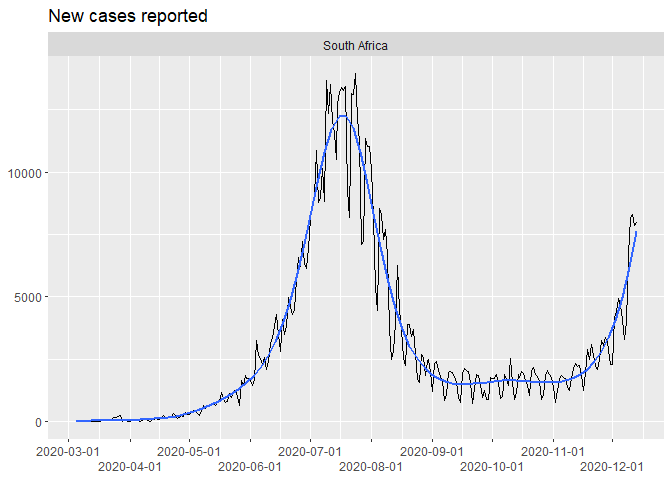
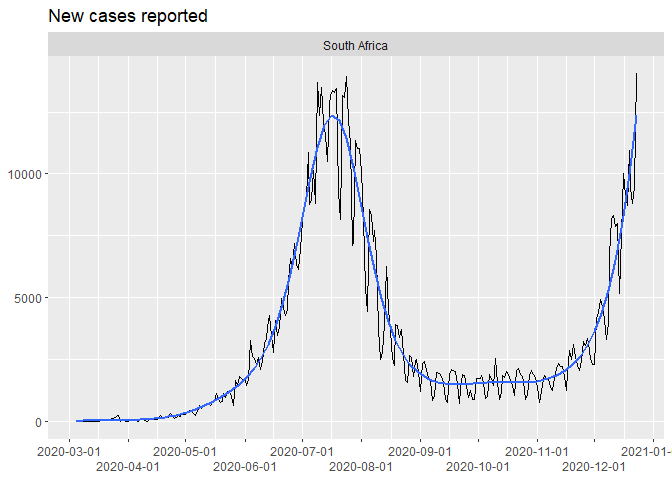
Refresh

diff --git a/README.md b/README.md
@@ -4,6 +4,7 @@
 # covid-19
 
 <!-- badges: start -->
+
 <!-- badges: end -->
 
 This is another analysis of the outbreak of [Coronavirus / Covid-19
@@ -18,7 +19,7 @@ The data source is [a repository maintained by Johns Hopkins
 University](https://github.com/CSSEGISandData/COVID-19). The data is
 updated once per day.
 
-Last updated at 2020-12-14 06:54:15
+Last updated at 2020-12-24 06:52:18
 
 ## Total cases
 
@@ -26,16 +27,16 @@ Last updated at 2020-12-14 06:54:15
     #> # Groups:   country [1]
     #>    country      date         lat  long  cases
     #>    <chr>        <date>     <dbl> <dbl>  <dbl>
-    #>  1 South Africa 2020-12-04 -30.6  22.9 805804
-    #>  2 South Africa 2020-12-05 -30.6  22.9 810449
-    #>  3 South Africa 2020-12-06 -30.6  22.9 814565
-    #>  4 South Africa 2020-12-07 -30.6  22.9 817878
-    #>  5 South Africa 2020-12-08 -30.6  22.9 821889
-    #>  6 South Africa 2020-12-09 -30.6  22.9 828598
-    #>  7 South Africa 2020-12-10 -30.6  22.9 836764
-    #>  8 South Africa 2020-12-11 -30.6  22.9 845083
-    #>  9 South Africa 2020-12-12 -30.6  22.9 852965
-    #> 10 South Africa 2020-12-13 -30.6  22.9 860964
+    #>  1 South Africa 2020-12-14 -30.6  22.9 866127
+    #>  2 South Africa 2020-12-15 -30.6  22.9 873679
+    #>  3 South Africa 2020-12-16 -30.6  22.9 883687
+    #>  4 South Africa 2020-12-17 -30.6  22.9 892813
+    #>  5 South Africa 2020-12-18 -30.6  22.9 901538
+    #>  6 South Africa 2020-12-19 -30.6  22.9 912477
+    #>  7 South Africa 2020-12-20 -30.6  22.9 921922
+    #>  8 South Africa 2020-12-21 -30.6  22.9 930711
+    #>  9 South Africa 2020-12-22 -30.6  22.9 940212
+    #> 10 South Africa 2020-12-23 -30.6  22.9 954258
 
 ### Linear scale
 
@@ -69,16 +70,16 @@ indicates exponential growth.
     #> # Groups:   country [1]
     #>    country      date       deaths
     #>    <chr>        <date>      <dbl>
-    #>  1 South Africa 2020-12-04  21963
-    #>  2 South Africa 2020-12-05  22067
-    #>  3 South Africa 2020-12-06  22206
-    #>  4 South Africa 2020-12-07  22249
-    #>  5 South Africa 2020-12-08  22432
-    #>  6 South Africa 2020-12-09  22574
-    #>  7 South Africa 2020-12-10  22747
-    #>  8 South Africa 2020-12-11  22952
-    #>  9 South Africa 2020-12-12  23106
-    #> 10 South Africa 2020-12-13  23276
+    #>  1 South Africa 2020-12-14  23451
+    #>  2 South Africa 2020-12-15  23661
+    #>  3 South Africa 2020-12-16  23827
+    #>  4 South Africa 2020-12-17  24011
+    #>  5 South Africa 2020-12-18  24285
+    #>  6 South Africa 2020-12-19  24539
+    #>  7 South Africa 2020-12-20  24691
+    #>  8 South Africa 2020-12-21  24907
+    #>  9 South Africa 2020-12-22  25246
+    #> 10 South Africa 2020-12-23  25657
 
 ### Linear scale
 
